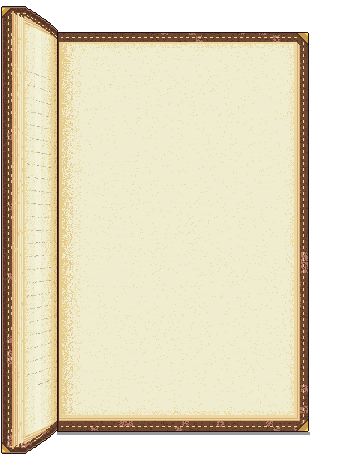
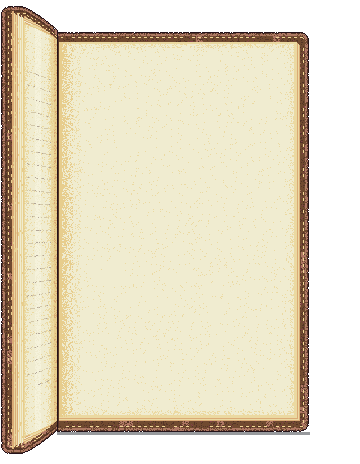
Journal: a soft, worn cover (rounded corners, rolled padded edges, rubbed and frayed leather, worn stitches)
Claude-Session: https://claude.ai/code/session_01AFuv3xBDCFNHg8cxuFG86Z

diff --git a/tools/build_art.py b/tools/build_art.py
@@ -944,20 +944,63 @@ def journal():
     for y in range(PY0 - 9, PY1 + 14):
         px[SP, y] = OUTLINE + (255,)
         px[SP + 1, y] = LEATHER_DK
-    # brass caps on the lifted board's outer corners
-    for (top, sy) in ((True, 1), (False, -1)):
-        x0 = OUTER - T - C
-        cy = edge_y(OUTER, top) + (-(7 + C) if top else 7 + C)
-        for i in range(10):
-            for j in range(10 - i):
-                x, y = x0 + i, cy + sy * j
-                if 0 <= x < IW and 0 <= y < IH:
-                    px[x, y] = GLINT if i + j < 3 else BRASS if i + j < 8 else LEATHER_DK
-    # brass caps on the right board's outer corners
-    for (cy, sy) in ((PY0 - 9, 1), (PY1 + 13, -1)):
-        for i in range(12):
-            for j in range(12 - i):
-                px[PX1 + 11 - i, cy + sy * j] = GLINT if i + j < 3 else BRASS if i + j < 10 else LEATHER_DK
+    # A well-used cover: the corners knocked round and soft, the edges
+    # frayed with little nicks, the leather rubbed paler along its edges and
+    # paler still at the corners where hands hold it, and a few stitches
+    # worn through.
+    a = np.array(im)
+    leathers = {LEATHER[:3], LEATHER_DK[:3], LEATHER_MID[:3], WORN[:3], LEATHER_LT[:3], STITCH[:3]}
+    is_leather = np.zeros(a.shape[:2], bool)
+    for c in leathers:
+        is_leather |= (a[..., :3] == c).all(-1) & (a[..., 3] > 0)
+    solid = a[..., 3] > 0
+    # round the corners: a cover pixel with too little cover around it is a
+    # corner tip, worn away
+    R = 7
+    pad = np.pad(solid, R)
+    near = np.zeros(solid.shape, np.int32)
+    total = 0
+    for dy in range(-R, R + 1):
+        for dx in range(-R, R + 1):
+            if dx * dx + dy * dy <= R * R:
+                near += pad[R + dy:R + dy + solid.shape[0], R + dx:R + dx + solid.shape[1]]
+                total += 1
+    worn_off = is_leather & (near < total * 0.5)
+    a[worn_off] = 0
+    solid = a[..., 3] > 0
+    # how far each pixel is from the cover's edge, in pixels
+    dist = np.where(solid, 99, 0)
+    outside = ~solid
+    for d in range(1, 5):
+        grown = outside.copy()
+        grown[1:] |= outside[:-1]
+        grown[:-1] |= outside[1:]
+        grown[:, 1:] |= outside[:, :-1]
+        grown[:, :-1] |= outside[:, 1:]
+        dist[(dist == 99) & grown] = d
+        outside = grown
+    corner = near < total * 0.62  # close to a corner
+    hh, ww = solid.shape
+    for y in range(hh):
+        for x in range(ww):
+            if not is_leather[y, x] or not solid[y, x]:
+                continue
+            n = hash01(x, y, 31)
+            d = dist[y, x]
+            if d == 1 and n < 0.07:
+                a[y, x] = 0  # a nick out of the edge
+            elif d == 1:
+                # the soft leather rolled over the board's edge, in shadow,
+                # rubbed through here and there
+                a[y, x] = WORN if n < (0.4 if corner[y, x] else 0.18) else LEATHER_DK
+            elif d <= 3 and tuple(a[y, x, :3]) != STITCH[:3]:
+                # the padded swell just inside it, catching the light
+                a[y, x] = LEATHER_LT if n < (0.3 if corner[y, x] else 0.12) else WORN if n < 0.75 else LEATHER
+            elif d <= 5 and corner[y, x] and n < 0.35:
+                a[y, x] = WORN  # corners rubbed pale by thumbs
+            elif tuple(a[y, x, :3]) == STITCH[:3] and hash01(x // 3, y // 3, 32) < 0.2:
+                a[y, x] = LEATHER if n > 0.3 else LEATHER_DK  # a stitch worn through
+    im = Image.fromarray(a).copy()
     im = outline(im)
     px = im.load()
     # a soft shadow under the book

diff --git a/docs/ART_DIRECTION.md b/docs/ART_DIRECTION.md
@@ -241,7 +241,7 @@ you, taller, so its top and bottom edges slope out from the spine (a
 trapezoid) with faint lines of writing converging the same way; bowing up
 out of the gutter; darker toward the spine, casting a soft shadow on the
 facing page; the gutter the darkest line in the book. The leather cover
-overhangs the pages, stitched round the edge with brass corner caps, and
+overhangs the pages, stitched round the edge, and
 the edges of the pages beneath show along the right and bottom. You're
 well into the book, so the lifted half is thick with turned pages: a deep
 block of page edges along its free edge and its top and bottom, deeper
@@ -252,8 +252,11 @@ each page's edge is a shade of its own, darker deeper into the block, with
 a thin shadow where the top page overhangs the rest, and the page tips
 along the top and bottom staggered as real pages are,
 and round them the lifted cover: a thick board whose stitched inside face
-shows, then its own edge turned toward you, darker, with a worn highlight
-and brass on its corners. The whole book is centred on the screen, as much
+shows, then its own edge turned toward you, darker. It's a well-used book, not a new one: the corners are knocked round and
+soft, the soft leather rolls over the boards' edges (a shaded roll at the
+very edge, a padded swell catching the light just inside it), the edges are
+frayed with little nicks and rubbed pale, paler still at the corners where
+hands hold it, and a few stitches have worn through. The whole book is centred on the screen, as much
 room to its left as to its right (the build records where the drawing
 starts and ends, and the page positions, in `anchors.journal`). A red satin ribbon is tucked in behind
 the book, only its V-cut tail hanging out below the cover; a ripple runs
